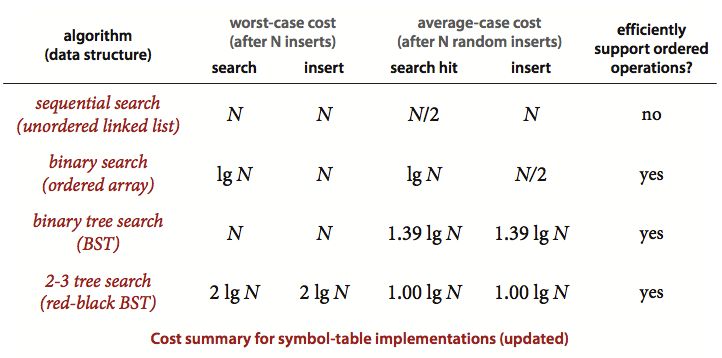
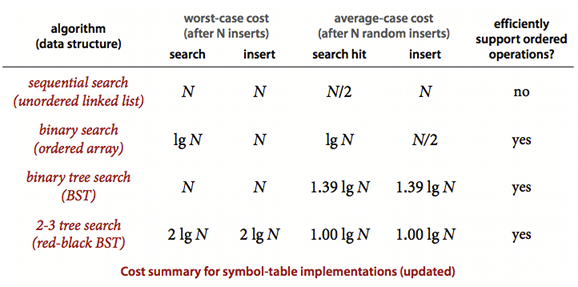
images rescaled, intro

diff --git a/_includes/postpagescripts.max.html b/_includes/postpagescripts.max.html
@@ -72,7 +72,7 @@
                 break;
 
             case "Weekend well spent with JSFoo & NodeJS":
-            case "Algorithms Course I With Prof Sidgewick on Coursera":
+            case "Algorithms Course-1 With Prof Sidgewick on Coursera":
                 common.GenerateTOC(4, 1);
                 break;
         }

diff --git a/_posts/2013-10-03-algorithms-course-i-with-prof-sidgewick-on-coursera.md b/_posts/2013-10-03-algorithms-course-i-with-prof-sidgewick-on-coursera.md
@@ -1,6 +1,6 @@
 ---
 layout: post
-title: "Algorithms Course I With Prof Sidgewick on Coursera"
+title: "Algorithms Course-1 With Prof Sidgewick on Coursera"
 category: posts
 tags: []
 categories: []
@@ -10,7 +10,11 @@ disqus: true
 toc: true
 ---
 
-#### General
+I did my engineering in electronics and communication systems. But my very first job was in software development. Having not studied theory of computing, databases, compilers and even algorithms/data-strutures as part of my graduation I went on to self-study these. However, deep down, have felt the need for more structured education. I don't remember when I first heard of [Coursera](https://www.coursera.org). But my early tryst with online education had been dismal (at my previous employer they would make me go through online training's mandatorily… and those used to absolutely suck). So even as I kept track of the courses offered on Coursera since early this year, I did not enroll. A couple of months ago I decided to give it a serious try… and I enrolled myself for the first course on Algorithms by Professor Sidgewick. I finished my final exam on the course yesterday. And it feels great to be done with all tests and programming assignments. The course was structured in the undergraduate training way… which is exactly what I wanted. The learning has been enormous. Anyone who has spent a decade in software development like me would know MergeSort and QuickSort anyway… but the scientific treatment of the subject both in the videos and the textbook gives me a sense of closure. And by the way, I think algorithms and data-structures is a field which a practicing engineer has to seriously brush-up, once in every few years, just to keep up…
+
+Like the few book reviews that I have done before on my blog, this is a quick refresher for myself on all that I have studied. Its not complete or thorough. And I hope there are no factual errors. So if a passing reader finds anything here useful, it makes me glad… 
+
+#### General questions on the study of Algorithms 
 
 1. Why study Algorithms and Data Structures? Why are they important?
 Computers, no matter how powerful, have space and time constraints. Poorly thought through implementations for computing problems can take years to compute even when computing resources are massive. For example -
@@ -186,5 +190,8 @@ Both use separate chaining. Google guava libraries have some implementations for
 15. Performance of hashing vis-a-vis trees?
 ![image](http://bharathwrites.in/images/algorithms/hashperf.png)
 
+16. What would be a good data-structure to use for counting all people within a income range (say 10k to 20k) in an age group (say 25 to 35 years) among a million people?
+Kd-trees because of the easy 2-dimensional split (at least one should say some kind of tree). Though Kd-trees can be used for n-dimensional searches very well too
 
-16. 
+17
+.   
